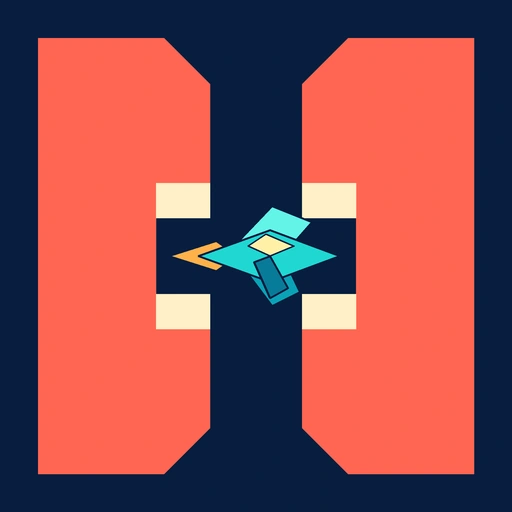
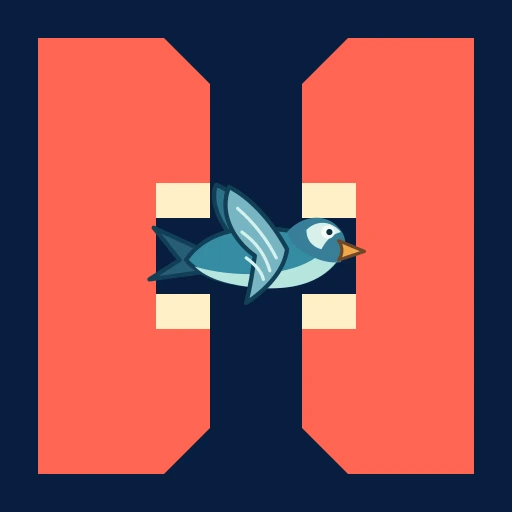
ENH - animate sky flappy bird

Changed region(s): [[0.2812, 0.3438, 0.7188, 0.5938]]

diff --git a/frontend/src/views/apps/SkyFlappyApp.vue b/frontend/src/views/apps/SkyFlappyApp.vue
@@ -1,9 +1,10 @@
+
 <script setup lang="ts">
 import { ChevronLeft, Pause, Play, RotateCcw, Volume2, VolumeX, Wind } from 'lucide-vue-next'
 import { computed, onBeforeUnmount, ref, watch, type CSSProperties } from 'vue'
 
 import { playSkyFlappySound } from '@/features/games/sky-flappy/audio'
-import SkyFlappyGlider from '@/features/games/sky-flappy/SkyFlappyGlider.vue'
+import SkyFlappyBird from '@/features/games/sky-flappy/SkyFlappyBird.vue'
 import { useSkyFlappyStore } from '@/features/games/sky-flappy/store'
 import type { SkyFlappyDesign, SkyFlappyObstacle } from '@/features/games/sky-flappy/types'
 import { usePhoneStore } from '@/stores/phone'
@@ -114,7 +115,7 @@ onBeforeUnmount(() => {
 
     <section v-if="flappy.menuOpen" class="flappy-menu">
       <div class="flappy-menu__hero" aria-hidden="true">
-        <SkyFlappyGlider class="sky-glider sky-glider--hero" />
+        <SkyFlappyBird class="sky-bird sky-bird--hero" />
         <i class="flappy-menu__trail"></i>
         <div class="flappy-menu__tower flappy-menu__tower--left"></div>
         <div class="flappy-menu__tower flappy-menu__tower--right"></div>
@@ -144,7 +145,7 @@ onBeforeUnmount(() => {
           <span class="flappy-obstacle__top" :style="{ height: `${obstacle.gapTop}%` }"></span>
           <span class="flappy-obstacle__bottom" :style="{ top: `${obstacle.gapTop + obstacle.gapHeight}%` }"></span>
         </div>
-        <SkyFlappyGlider :key="flapEffect" class="sky-glider sky-glider--player" :style="playerStyle" />
+        <SkyFlappyBird :key="flapEffect" class="sky-bird sky-bird--player" :style="playerStyle" />
         <strong v-if="game.status === 'ready'" class="flappy-ready">{{ phone.t('Apps.skyFlappy.firstTap') }}</strong>
         <div class="flappy-horizon" aria-hidden="true"></div>
       </button>
@@ -160,7 +161,7 @@ onBeforeUnmount(() => {
 .flappy-app { --sky-a:#53c9ed;--sky-b:#7970df;--tower:#645bd1; position:absolute;inset:0;overflow:hidden;padding:52px 16px 27px;color:#fff;background:linear-gradient(160deg,#19375e,#433b80);font-family:-apple-system,BlinkMacSystemFont,"Segoe UI",sans-serif;user-select:none;touch-action:manipulation; }
 .flappy-app--neon { --sky-a:#1b1e58;--sky-b:#7b258c;--tower:#23cbd1; }.flappy-app--storm { --sky-a:#526779;--sky-b:#24354e;--tower:#b06f64; }
 .flappy-header{height:55px;display:flex;align-items:center;justify-content:space-between}.flappy-header span{display:block;color:#c3d7ef;font-size:9px;font-weight:850;letter-spacing:1.1px;text-transform:uppercase}.flappy-header h1{margin:0;font-size:24px;line-height:1}.flappy-header button,.flappy-toolbar button{width:36px;height:36px;display:grid;place-items:center;padding:0;border:1px solid #ffffff1c;border-radius:12px;color:#fff;background:#ffffff12}
-.flappy-menu{height:calc(100% - 55px);display:flex;flex-direction:column;align-items:center;justify-content:center;gap:12px;text-align:center}.flappy-menu__hero{position:relative;width:220px;height:210px;overflow:hidden;border-radius:28px;background:linear-gradient(var(--sky-a),var(--sky-b));box-shadow:0 18px 32px #101b3b66}.flappy-menu__tower{position:absolute;top:0;bottom:0;width:50px;background:repeating-linear-gradient(180deg,var(--tower) 0 42px,#ffffff2b 43px 48px);box-shadow:inset -7px 0 12px #0003}.flappy-menu__tower--left{left:0}.flappy-menu__tower--right{right:0}.flappy-menu__trail{position:absolute;top:103px;left:45px;width:72px;height:10px;border-radius:50%;background:#ffe381;filter:blur(5px);animation:flappy-trail 1s ease-in-out infinite}.sky-glider{position:absolute;z-index:4;width:58px;height:40px;overflow:visible;filter:drop-shadow(0 4px 5px #071d3e66) drop-shadow(0 0 7px #72fff088)}.sky-glider :deep(path){stroke-linejoin:round}.sky-glider :deep(.sky-flappy-glider__trail){fill:#ffb14a}.sky-glider :deep(.sky-flappy-glider__lower-wing){fill:#0aa2b7;stroke:#063653;stroke-width:2}.sky-glider :deep(.sky-flappy-glider__upper-wing){fill:#62f4e8;stroke:#063653;stroke-width:2}.sky-glider :deep(.sky-flappy-glider__body){fill:#20d7d2;stroke:#063653;stroke-width:2}.sky-glider :deep(.sky-flappy-glider__cockpit){fill:#fff0a6;stroke:#063653;stroke-width:1.5}.sky-glider :deep(.sky-flappy-glider__keel){fill:#087b98;stroke:#063653;stroke-width:2}.sky-glider--hero{top:84px;left:81px;animation:flappy-hero 1.1s ease-in-out infinite alternate}.sky-glider--hero :deep(.sky-flappy-glider__upper-wing),.sky-glider--hero :deep(.sky-flappy-glider__lower-wing){transform-box:fill-box;transform-origin:center;animation:flappy-glider-wing 1.1s ease-in-out infinite alternate}.flappy-menu__copy>span{color:#ffda70;font-size:9px;font-weight:900;letter-spacing:1px;text-transform:uppercase}.flappy-menu__copy h2{margin:3px 0 5px;font-size:21px}.flappy-menu__copy p{max-width:275px;margin:0;color:#c0c8df;font-size:10px;line-height:1.4}.flappy-record{width:100%;display:flex;align-items:center;justify-content:space-between;padding:9px 14px;border:1px solid #ffffff14;border-radius:13px;background:#ffffff0c}.flappy-record span{color:#bdc8df;font-size:9px;font-weight:800;text-transform:uppercase}.flappy-record strong{font-size:19px}.flappy-designs{width:100%;display:grid;grid-template-columns:repeat(3,1fr);gap:6px}.flappy-designs button{display:grid;place-items:center;gap:3px;padding:7px 3px;border:1px solid #ffffff12;border-radius:12px;color:#ccd4e9;background:#ffffff0a;font-size:8px}.flappy-designs button.active{border-color:#ffdd72;color:#fff;background:#ffffff1b}.flappy-designs i{width:26px;height:13px;border-radius:8px}.flappy-designs__dawn{background:linear-gradient(90deg,#58d6ee,#ff9b80)}.flappy-designs__neon{background:linear-gradient(90deg,#24255f,#ef55ca)}.flappy-designs__storm{background:linear-gradient(90deg,#71899b,#253750)}.flappy-primary,.flappy-secondary{width:100%;min-height:43px;display:flex;align-items:center;justify-content:center;gap:7px;border-radius:14px;font-size:11px;font-weight:850}.flappy-primary{border:0;color:#173353;background:linear-gradient(135deg,#ffe16c,#ff9d68)}.flappy-secondary{border:1px solid #ffffff18;color:#fff;background:#ffffff0b}.flappy-menu>p,.flappy-game__hint{margin:0;color:#aeb9d2;font-size:9px}
-.flappy-game{position:relative;height:calc(100% - 55px)}.flappy-toolbar{height:47px;display:grid;grid-template-columns:36px 1fr 1fr 36px;align-items:center;gap:7px}.flappy-toolbar div{display:grid;justify-items:center}.flappy-toolbar span{color:#bac9df;font-size:8px;font-weight:850;text-transform:uppercase}.flappy-toolbar strong{font-size:16px}.flappy-stage{position:relative;width:100%;height:500px;display:block;overflow:hidden;padding:0;border:1px solid #ffffff1c;border-radius:22px;background:linear-gradient(var(--sky-a),var(--sky-b));box-shadow:inset 0 0 35px #15244c55,0 16px 30px #10193477;touch-action:manipulation}.flappy-clouds i{position:absolute;width:80px;height:24px;border-radius:50%;background:#ffffff30;filter:blur(1px);animation:cloud-drift 7s linear infinite}.flappy-clouds i:nth-child(1){top:10%;left:15%}.flappy-clouds i:nth-child(2){top:25%;left:65%;animation-delay:-2s}.flappy-clouds i:nth-child(3){top:45%;left:35%;animation-delay:-4s}.flappy-clouds i:nth-child(4){top:68%;left:78%}.flappy-clouds i:nth-child(5){top:78%;left:4%;animation-delay:-3s}.flappy-obstacle{position:absolute;z-index:2;top:0;bottom:0}.flappy-obstacle span{position:absolute;right:0;left:0;background:linear-gradient(90deg,color-mix(in srgb,var(--tower),white 20%),var(--tower));box-shadow:inset -6px 0 8px #0003,0 0 13px #17204e55}.flappy-obstacle span::after{position:absolute;right:-4px;left:-4px;height:14px;border-radius:6px;background:color-mix(in srgb,var(--tower),white 10%);box-shadow:inset 0 3px 0 #ffffff25;content:""}.flappy-obstacle__top{top:0;border-radius:0 0 7px 7px}.flappy-obstacle__top::after{bottom:0}.flappy-obstacle__bottom{bottom:0;border-radius:7px 7px 0 0}.flappy-obstacle__bottom::after{top:0}.sky-glider--player{left:23%;animation:flappy-wing .2s ease-out}.flappy-ready{position:absolute;z-index:6;top:36%;left:50%;padding:9px 15px;border-radius:17px;background:#15284fbb;font-size:11px;transform:translateX(-50%)}.flappy-horizon{position:absolute;z-index:3;right:0;bottom:0;left:0;height:12px;background:#263a62;box-shadow:0 -5px 14px #ffffff26}.flappy-stage--crashed{animation:flappy-crash .55s ease-out}.flappy-game__hint{margin-top:8px;text-align:center}.flappy-overlay{position:absolute;z-index:12;inset:47px 0 25px;display:flex;flex-direction:column;align-items:center;justify-content:center;gap:9px;padding:28px;border-radius:22px;background:#101a38dc;backdrop-filter:blur(7px);text-align:center}.flappy-overlay>svg{color:#ffdc71}.flappy-overlay>span{color:#ffad78;font-size:9px;font-weight:900;letter-spacing:1px;text-transform:uppercase}.flappy-overlay h2{margin:0 0 5px;font-size:26px}
-@keyframes flappy-hero{from{transform:translateY(7px) rotate(-5deg)}to{transform:translateY(-8px) rotate(7deg)}}@keyframes flappy-trail{0%,100%{opacity:.25;transform:scaleX(.6)}50%{opacity:.9;transform:scaleX(1)}}@keyframes flappy-wing{from{filter:brightness(1.5) drop-shadow(0 4px 5px #071d3e66);scale:1.1}to{filter:brightness(1) drop-shadow(0 4px 5px #071d3e66);scale:1}}@keyframes flappy-glider-wing{from{transform:scaleY(.72)}to{transform:scaleY(1.08)}}@keyframes cloud-drift{from{translate:90px 0}to{translate:-160px 0}}@keyframes flappy-crash{0%,100%{transform:translate(0)}25%{transform:translate(-5px,3px)}50%{transform:translate(5px,-2px)}75%{transform:translate(-3px,1px)}}button:active{transform:scale(.97)}@media(prefers-reduced-motion:reduce){.sky-glider,.sky-glider :deep(path),.flappy-menu__trail,.flappy-clouds i,.flappy-stage{animation:none}}
+.flappy-menu{height:calc(100% - 55px);display:flex;flex-direction:column;align-items:center;justify-content:center;gap:12px;text-align:center}.flappy-menu__hero{position:relative;width:220px;height:210px;overflow:hidden;border-radius:28px;background:linear-gradient(var(--sky-a),var(--sky-b));box-shadow:0 18px 32px #101b3b66}.flappy-menu__tower{position:absolute;top:0;bottom:0;width:50px;background:repeating-linear-gradient(180deg,var(--tower) 0 42px,#ffffff2b 43px 48px);box-shadow:inset -7px 0 12px #0003}.flappy-menu__tower--left{left:0}.flappy-menu__tower--right{right:0}.flappy-menu__trail{position:absolute;top:105px;left:47px;width:60px;height:5px;border-radius:50%;background:#d8f8ff80;filter:blur(4px);animation:flappy-trail 1s ease-in-out infinite}.sky-bird{position:absolute;z-index:4;width:66px;height:46px;overflow:visible;filter:drop-shadow(0 4px 5px #071d3e66)}.sky-bird :deep(path){stroke-linecap:round;stroke-linejoin:round}.sky-bird :deep(.sky-flappy-bird__far-wing){fill:#2d7188;stroke:#123f57;stroke-width:2}.sky-bird :deep(.sky-flappy-bird__far-wing path:last-child){fill:none;stroke:#8ec6ce;stroke-width:1.4;opacity:.65}.sky-bird :deep(.sky-flappy-bird__tail){fill:#285e78;stroke:#123f57;stroke-width:2}.sky-bird :deep(.sky-flappy-bird__body){fill:url(#sky-bird-body);stroke:#123f57;stroke-width:2}.sky-bird :deep(.sky-flappy-bird__belly){fill:#b7e5df;opacity:.84}.sky-bird :deep(.sky-flappy-bird__neck){fill:#377f98}.sky-bird :deep(.sky-flappy-bird__wing){transform-box:view-box;transform-origin:52px 38px}.sky-bird :deep(.sky-flappy-bird__wing-shape){fill:url(#sky-bird-wing);stroke:#123f57;stroke-width:2}.sky-bird :deep(.sky-flappy-bird__feather){fill:none;stroke:#d4f0ed;stroke-width:1.5;opacity:.78}.sky-bird :deep(.sky-flappy-bird__face){fill:#d8f0e9}.sky-bird :deep(.sky-flappy-bird__eye-ring){fill:#f5fbf7}.sky-bird :deep(.sky-flappy-bird__eye){fill:#102d3d}.sky-bird :deep(.sky-flappy-bird__beak){fill:#f2a84b;stroke:#6f4727;stroke-width:1.5}.sky-bird--hero{top:82px;left:78px;animation:flappy-hero 1.1s ease-in-out infinite alternate}.sky-bird--hero :deep(.sky-flappy-bird__wing){animation:flappy-bird-glide 1.1s ease-in-out infinite}.sky-bird--hero :deep(.sky-flappy-bird__far-wing){transform-box:view-box;transform-origin:50px 38px;animation:flappy-bird-far-glide 1.1s ease-in-out infinite}.flappy-menu__copy>span{color:#ffda70;font-size:9px;font-weight:900;letter-spacing:1px;text-transform:uppercase}.flappy-menu__copy h2{margin:3px 0 5px;font-size:21px}.flappy-menu__copy p{max-width:275px;margin:0;color:#c0c8df;font-size:10px;line-height:1.4}.flappy-record{width:100%;display:flex;align-items:center;justify-content:space-between;padding:9px 14px;border:1px solid #ffffff14;border-radius:13px;background:#ffffff0c}.flappy-record span{color:#bdc8df;font-size:9px;font-weight:800;text-transform:uppercase}.flappy-record strong{font-size:19px}.flappy-designs{width:100%;display:grid;grid-template-columns:repeat(3,1fr);gap:6px}.flappy-designs button{display:grid;place-items:center;gap:3px;padding:7px 3px;border:1px solid #ffffff12;border-radius:12px;color:#ccd4e9;background:#ffffff0a;font-size:8px}.flappy-designs button.active{border-color:#ffdd72;color:#fff;background:#ffffff1b}.flappy-designs i{width:26px;height:13px;border-radius:8px}.flappy-designs__dawn{background:linear-gradient(90deg,#58d6ee,#ff9b80)}.flappy-designs__neon{background:linear-gradient(90deg,#24255f,#ef55ca)}.flappy-designs__storm{background:linear-gradient(90deg,#71899b,#253750)}.flappy-primary,.flappy-secondary{width:100%;min-height:43px;display:flex;align-items:center;justify-content:center;gap:7px;border-radius:14px;font-size:11px;font-weight:850}.flappy-primary{border:0;color:#173353;background:linear-gradient(135deg,#ffe16c,#ff9d68)}.flappy-secondary{border:1px solid #ffffff18;color:#fff;background:#ffffff0b}.flappy-menu>p,.flappy-game__hint{margin:0;color:#aeb9d2;font-size:9px}
+.flappy-game{position:relative;height:calc(100% - 55px)}.flappy-toolbar{height:47px;display:grid;grid-template-columns:36px 1fr 1fr 36px;align-items:center;gap:7px}.flappy-toolbar div{display:grid;justify-items:center}.flappy-toolbar span{color:#bac9df;font-size:8px;font-weight:850;text-transform:uppercase}.flappy-toolbar strong{font-size:16px}.flappy-stage{position:relative;width:100%;height:500px;display:block;overflow:hidden;padding:0;border:1px solid #ffffff1c;border-radius:22px;background:linear-gradient(var(--sky-a),var(--sky-b));box-shadow:inset 0 0 35px #15244c55,0 16px 30px #10193477;touch-action:manipulation}.flappy-clouds i{position:absolute;width:80px;height:24px;border-radius:50%;background:#ffffff30;filter:blur(1px);animation:cloud-drift 7s linear infinite}.flappy-clouds i:nth-child(1){top:10%;left:15%}.flappy-clouds i:nth-child(2){top:25%;left:65%;animation-delay:-2s}.flappy-clouds i:nth-child(3){top:45%;left:35%;animation-delay:-4s}.flappy-clouds i:nth-child(4){top:68%;left:78%}.flappy-clouds i:nth-child(5){top:78%;left:4%;animation-delay:-3s}.flappy-obstacle{position:absolute;z-index:2;top:0;bottom:0}.flappy-obstacle span{position:absolute;right:0;left:0;background:linear-gradient(90deg,color-mix(in srgb,var(--tower),white 20%),var(--tower));box-shadow:inset -6px 0 8px #0003,0 0 13px #17204e55}.flappy-obstacle span::after{position:absolute;right:-4px;left:-4px;height:14px;border-radius:6px;background:color-mix(in srgb,var(--tower),white 10%);box-shadow:inset 0 3px 0 #ffffff25;content:""}.flappy-obstacle__top{top:0;border-radius:0 0 7px 7px}.flappy-obstacle__top::after{bottom:0}.flappy-obstacle__bottom{bottom:0;border-radius:7px 7px 0 0}.flappy-obstacle__bottom::after{top:0}.sky-bird--player{left:23%;animation:flappy-wing .24s ease-out}.sky-bird--player :deep(.sky-flappy-bird__wing){animation:flappy-bird-flap .24s cubic-bezier(.2,.75,.35,1)}.sky-bird--player :deep(.sky-flappy-bird__far-wing){transform-box:view-box;transform-origin:50px 38px;animation:flappy-bird-far-flap .24s cubic-bezier(.2,.75,.35,1)}.flappy-ready{position:absolute;z-index:6;top:36%;left:50%;padding:9px 15px;border-radius:17px;background:#15284fbb;font-size:11px;transform:translateX(-50%)}.flappy-horizon{position:absolute;z-index:3;right:0;bottom:0;left:0;height:12px;background:#263a62;box-shadow:0 -5px 14px #ffffff26}.flappy-stage--crashed{animation:flappy-crash .55s ease-out}.flappy-game__hint{margin-top:8px;text-align:center}.flappy-overlay{position:absolute;z-index:12;inset:47px 0 25px;display:flex;flex-direction:column;align-items:center;justify-content:center;gap:9px;padding:28px;border-radius:22px;background:#101a38dc;backdrop-filter:blur(7px);text-align:center}.flappy-overlay>svg{color:#ffdc71}.flappy-overlay>span{color:#ffad78;font-size:9px;font-weight:900;letter-spacing:1px;text-transform:uppercase}.flappy-overlay h2{margin:0 0 5px;font-size:26px}
+@keyframes flappy-hero{from{transform:translateY(7px) rotate(-5deg)}to{transform:translateY(-8px) rotate(7deg)}}@keyframes flappy-trail{0%,100%{opacity:.18;transform:scaleX(.65)}50%{opacity:.62;transform:scaleX(1)}}@keyframes flappy-wing{0%{filter:brightness(1.12) drop-shadow(0 4px 5px #071d3e66);scale:1.04}100%{filter:brightness(1) drop-shadow(0 4px 5px #071d3e66);scale:1}}@keyframes flappy-bird-flap{0%{transform:rotate(13deg) scaleY(.92)}42%{transform:rotate(-42deg) scaleY(.84)}100%{transform:rotate(8deg)}}@keyframes flappy-bird-far-flap{0%{transform:rotate(5deg)}45%{transform:rotate(-27deg)}100%{transform:rotate(3deg)}}@keyframes flappy-bird-glide{0%,100%{transform:rotate(7deg)}50%{transform:rotate(-32deg) scaleY(.88)}}@keyframes flappy-bird-far-glide{0%,100%{transform:rotate(2deg)}50%{transform:rotate(-20deg)}}@keyframes cloud-drift{from{translate:90px 0}to{translate:-160px 0}}@keyframes flappy-crash{0%,100%{transform:translate(0)}25%{transform:translate(-5px,3px)}50%{transform:translate(5px,-2px)}75%{transform:translate(-3px,1px)}}button:active{transform:scale(.97)}@media(prefers-reduced-motion:reduce){.sky-bird,.sky-bird :deep(*),.flappy-menu__trail,.flappy-clouds i,.flappy-stage{animation:none}}
 </style>

diff --git a/frontend/src/features/games/sky-flappy/SkyFlappyBird.vue b/frontend/src/features/games/sky-flappy/SkyFlappyBird.vue
@@ -1,0 +1,72 @@
+<template>
+  <svg
+    class="sky-flappy-bird"
+    viewBox="0 0 104 72"
+    xmlns="http://www.w3.org/2000/svg"
+    aria-hidden="true"
+  >
+    <defs>
+      <linearGradient
+        id="sky-bird-body"
+        x1="20"
+        y1="24"
+        x2="84"
+        y2="54"
+        gradientUnits="userSpaceOnUse"
+      >
+        <stop stop-color="#5fc1d1" />
+        <stop offset="0.58" stop-color="#287d99" />
+        <stop offset="1" stop-color="#16546f" />
+      </linearGradient>
+      <linearGradient
+        id="sky-bird-wing"
+        x1="40"
+        y1="12"
+        x2="61"
+        y2="55"
+        gradientUnits="userSpaceOnUse"
+      >
+        <stop stop-color="#b5e5e7" />
+        <stop offset="0.48" stop-color="#579eb0" />
+        <stop offset="1" stop-color="#245f78" />
+      </linearGradient>
+    </defs>
+
+    <g class="sky-flappy-bird__far-wing">
+      <path d="M50 38C39 29 30 15 34 5c10 4 22 16 29 31Z" />
+      <path d="M39 13c7 5 14 13 19 22" />
+    </g>
+    <path class="sky-flappy-bird__tail" d="M29 36 5 25l12 15L3 49l29-4Z" />
+    <path
+      class="sky-flappy-bird__body"
+      d="M20 40c8-12 24-17 45-14 12 1 20 7 25 14-8 10-21 13-36 12-15-1-27-4-34-12Z"
+    />
+    <path
+      class="sky-flappy-bird__belly"
+      d="M24 43c13 4 31 5 45 1 7-2 12-5 16-9 2 2 4 4 5 6-8 10-21 13-36 12-13-1-24-4-30-10Z"
+    />
+    <path
+      class="sky-flappy-bird__neck"
+      d="M67 27c7-8 18-9 24-2 4 4 4 10 1 16-8 1-16-3-23-9Z"
+    />
+
+    <g class="sky-flappy-bird__wing">
+      <path
+        class="sky-flappy-bird__wing-shape"
+        d="M52 38C42 31 35 18 40 6c10 5 20 16 27 29-1 8-7 17-19 25 2-8 3-15 4-22Z"
+      />
+      <path
+        class="sky-flappy-bird__feather"
+        d="M44 16c8 7 14 15 18 23M46 27c7 5 11 11 13 18M48 39c4 3 7 6 8 10"
+      />
+    </g>
+
+    <path
+      class="sky-flappy-bird__face"
+      d="M76 26c5-5 12-4 16 1-4 1-7 4-9 8-4-1-7-4-7-9Z"
+    />
+    <circle class="sky-flappy-bird__eye-ring" cx="86" cy="27" r="3.1" />
+    <circle class="sky-flappy-bird__eye" cx="86.7" cy="27" r="1.45" />
+    <path class="sky-flappy-bird__beak" d="m91 31 12 5-12 4c2-3 2-6 0-9Z" />
+  </svg>
+</template>

diff --git a/frontend/src/stores/phone.ts b/frontend/src/stores/phone.ts
@@ -1,3 +1,4 @@
+
 import { defineStore } from 'pinia'
 
 import type { AppLaunchOrigin, PhoneAppId } from '@/types/apps'
@@ -286,7 +287,7 @@ const defaultLocales: LocaleTree = {
       highScore: 'High Score',
       mainMenu: 'Main Menu',
       menuBody:
-        'Guide the Sky Glider through every tower opening without touching the edges.',
+        'Guide the sky bird through every tower opening without touching the edges.',
       menuTitle: 'Fly between the towers',
       mute: 'Mute game sounds',
       pause: 'Pause or resume game',
@@ -297,7 +298,7 @@ const defaultLocales: LocaleTree = {
       resume: 'Continue Flight',
       score: 'Score',
       start: 'Start Flight',
-      tapHint: 'Tap to rise · gravity pulls the glider down',
+      tapHint: 'Tap to flap · gravity pulls the bird down',
       unmute: 'Turn on game sounds',
     },
     neonDrop: {

diff --git a/sky_phone/source/html/index.html b/sky_phone/source/html/index.html
@@ -4,7 +4,7 @@
     <meta charset="UTF-8" />
     <meta name="viewport" content="width=device-width, initial-scale=1.0" />
     <title>Sky Phone</title>
-    <script type="module" crossorigin src="./assets/sky-index-BqqMbGkp.js"></script>
+    <script type="module" crossorigin src="./assets/sky-index-BaiclJpQ.js"></script>
     <link rel="stylesheet" crossorigin href="./assets/sky-index-D9eWeoNZ.css">
   </head>
   <body>
